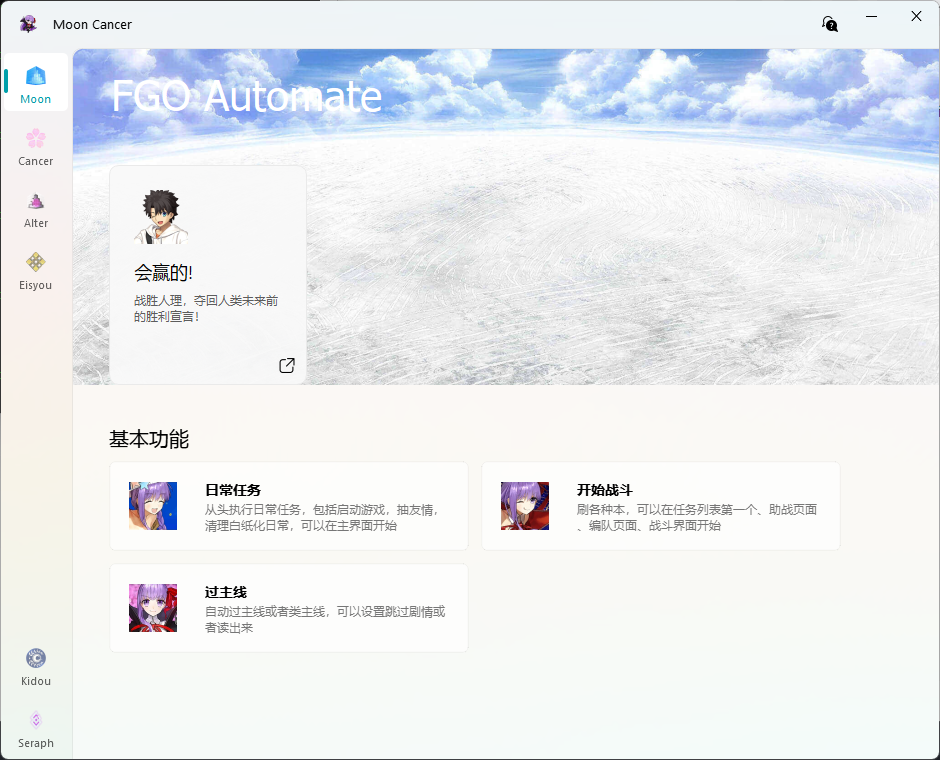
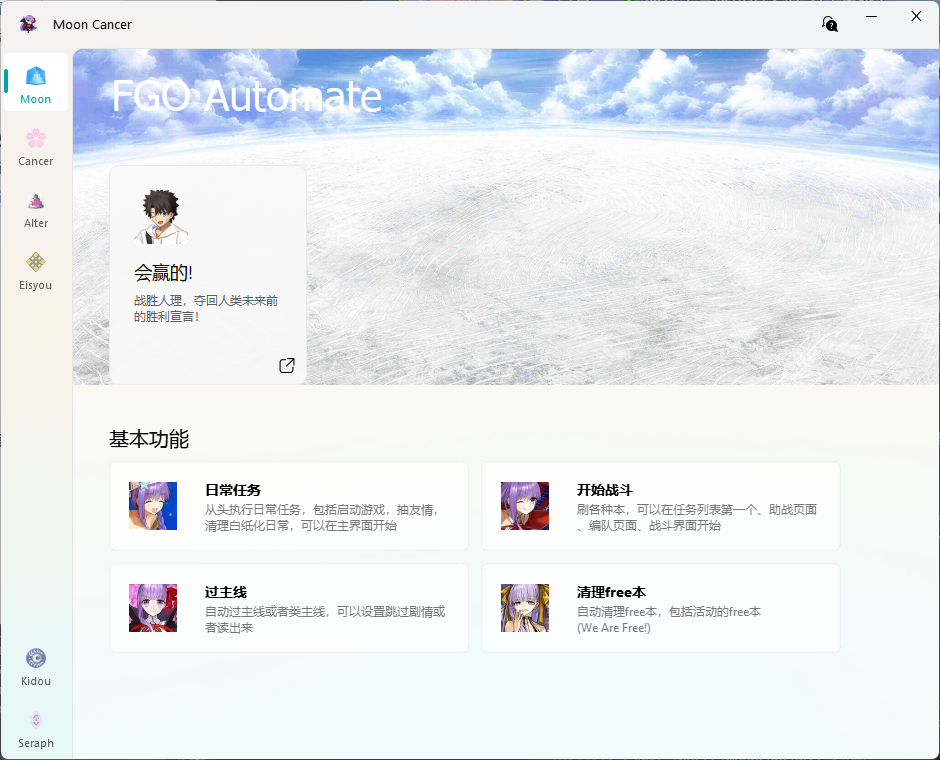
mc v2.1.3更新

diff --git a/src/content/posts/MoonCancer1.md b/src/content/posts/MoonCancer1.md
@@ -18,11 +18,21 @@ draft: false
 自动刷各种本，主要是能连续战斗的，或是强化本或者free本那样回到主界面右上角也有本可以点的情况，在Seraph(设置)里设置好战斗次数，礼装类型，是否要清理剩余体力，就可以点击开始了。可以在进入战斗前的选择助战，队伍设置和进入战斗后开始，也可以在主界面选本界面开始，但要保证要刷的本在第一个位置。<br>
 
 `过主线`<br>
-自动过主线和类主线，自动完成期间的战斗，保障屏幕里表示主线任务的`下一个`标识存在即可点击开始，部分情况会卡住，需要手动修正，默认自动跳过主线，关闭跳过剧情时会自动朗读剧情，相关配置可以到Eisyou界面修改，具体说明请看[Eisyou界面说明](../mooncancer4)<br>
+自动过主线和类主线，自动完成期间的战斗，**不要改变地图缩放，保持进入地图后的默认缩放，有缩放过的重新进图**，保障屏幕里表示主线任务的`下一个`标识存在即可点击开始，部分情况会卡住，需要手动修正，默认自动跳过主线，关闭跳过剧情时会自动朗读剧情，相关配置可以到Eisyou界面修改，具体说明请看[Eisyou界面说明](../mooncancer4)<br>
 可能需要手动干涉部分：<br>
-**第四特异点** 雾遮挡标志<br>
-**第六特异点** 风沙遮挡标志<br>
-**第七特异点** 提亚马特遮挡标志<br>
-**终局特异点** 柱子站之前剧情过完就没有标志了，要自己去把柱子战过了<br>
+- **第四特异点** 雾遮挡标志<br>
+- **第六特异点** 风沙遮挡标志<br>
+- **第七特异点** 提亚马特遮挡标志<br>
+- **终局特异点** 柱子站之前剧情过完就没有标志了，要自己去把柱子战过了<br>
+- **第七异闻带**  地图不适配
 
-更多功能等后续更新
+这里说下我使用的方式
+- 不想看剧情直接选择跳过
+- 想慢慢听就选不跳过挂着
+- 想快点看完就自己点屏幕快速浏览剧情，期间只用在有剧情时点屏幕，或者手动拖动下一个剧情点到屏幕中央，其他流程都交给脚本自动点击即可（也可以自己点下助战），这样既能快速过剧情，还有部分句子的语音强化记忆，还能自动战斗，不用自己去点战斗。我觉得挺舒服的。
+
+`清理free本`<br>
+自动清理free本(We Are Free!)。同样**不要改变地图缩放，保持进入地图后的默认缩放，有缩放过的重新进图**，进入地图就可以点开始了，**第七异闻带**  地图不适配，可以手动选关卡，固定三次战斗完成
+![freequest](../../assets/images/mooncaner/freequest.png)
+
+更多功能等后续更新。。。

diff --git a/src/content/posts/MoonCancer0.md b/src/content/posts/MoonCancer0.md
@@ -14,6 +14,7 @@ draft: false
 - `日常任务`：打开模拟器，打开游戏，抽每日友情池，清理白纸化副本结束，也可以在主页开始
 - `开始战斗`：无烦恼刷各种副本，复杂的机制关可能不能正常通关，建议手动修改根据机制来完成战斗
 - `过主线`：自动过主线，可以选择朗读剧情，或者跳过剧情，部分情况可以要手动调整重新启动任务
+- `清理free本`：自动清理free本，包括活动的free本(We Are Free!)
 - `Cancer`：局内数值修改器，只能在战斗中使用，用来手动修改数值
 - `Alter`：提供更灵活的方式修改局内数值，主要用来打圣杯战线
 - `Eisyou`：随机分配角色朗读剧情，可以挂着当相声听
@@ -75,8 +76,7 @@ draft: false
 ## 其他说明
 - 要自动白纸化每日，请尽量保持界面干净，保证要打的关卡已经开启，部分关卡依赖奏章Ⅱ定位（例如90⭐），所以至少要打完奏章Ⅰ，才能使用所有选项
 ![ordercall](../../assets/images/mooncaner/ordercall.png)
-- free本暂时还没适配，free本清理的时候战斗次数设置成3次就行了，需要手动切换没打的本。
-![freequest](../../assets/images/mooncaner/freequest.png)
+
 - 强化任务只要设置足够的次数理论上可以一次性打完，但有些有多个强化本的，开放时会有弹窗，可能会导致卡住，这个情况不好触发，暂时没适配，需要手动处理一下
 ![enhancequest](../../assets/images/mooncaner/enhancequest.png)
 ## 其他问题

diff --git a/src/content/posts/MoonCancer.md b/src/content/posts/MoonCancer.md
@@ -34,8 +34,20 @@ draft: false
 1.优化过剧情<br>
 2.优化战斗<br>
 
-## 2025年8月15日
+## 2025年8月20日
 1.优化过剧情，采用螺旋查找<br>
 2.优化战斗指令卡选择，只有一人或全是一人的卡时释放宝具<br>
 3.新增活动点数停止，在设置里可以设置活动点数，达到即停，不限制时归零<br>
 4.新增点击帮助弹出窗口<br>
+
+## 2025年8月21日
+1.优化过剧情，解决部分环节可能卡住的问题<br>
+2.优化战斗指令卡选择逻辑<br>
+3.新增自动清理free本<br>
+4.加强修改稳定性<br>
+
+## 2025年8月22日
+1.增加多模板匹配<br>
+2.解耦继续战斗判断<br>
+3.优化过剧情和自动free本<br>
+4.在过主线开始前提示是否跳过剧情<br>
